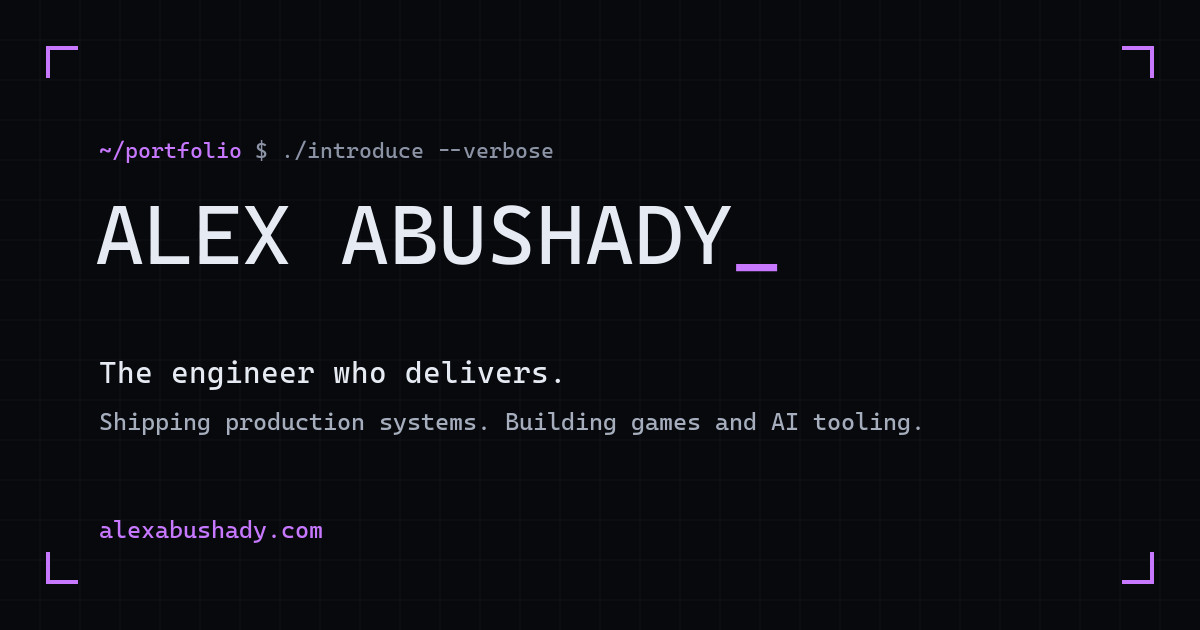
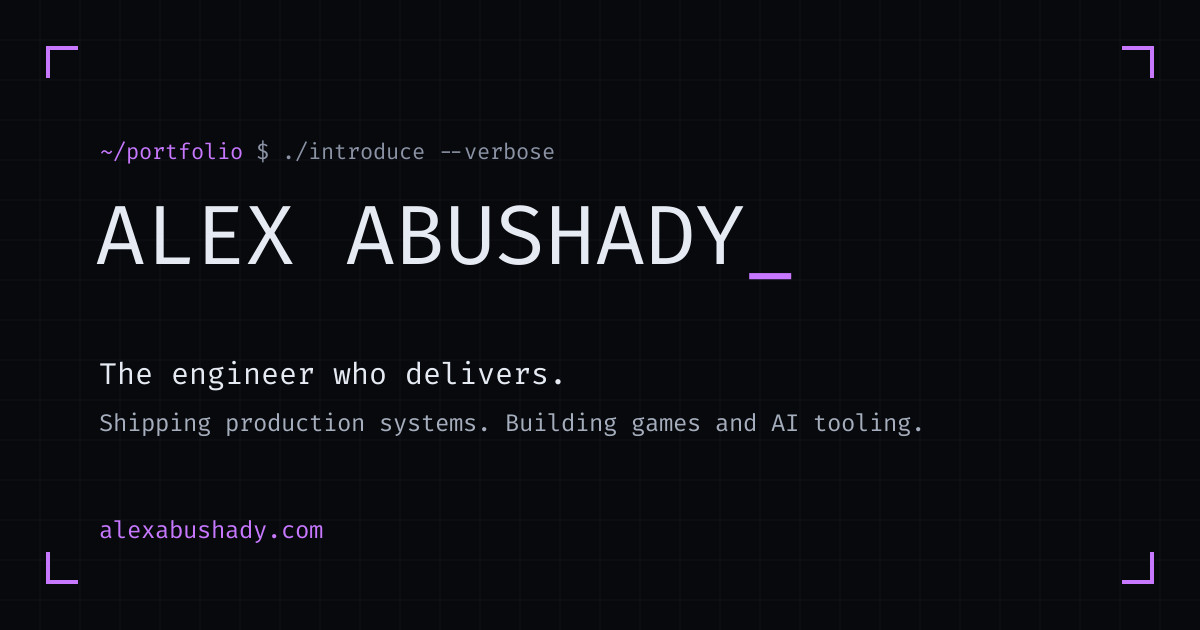
Add self-hosted Fira Code font and preload
Include Fira Code (400) as a self-hosted font: add woff2 and OFL license files, register @font-face in global CSS, and prefer 'Fira Code' as the mono font variable. Preload the font in MainHead for performance. Also replace/update public/assets/og-default.jpg. This ensures consistent monospace rendering for terminal/mono UI elements and ships the required license alongside the font.

diff --git a/src/styles/global.css b/src/styles/global.css
@@ -27,6 +27,15 @@
 	font-display: swap;
 	src: url('/fonts/cabinet-grotesk-variable.woff2') format('woff2');
 }
+/* Latin subset from Google Fonts; license in /fonts/LICENSE-fira-code-OFL.txt */
+@font-face {
+	font-family: 'Fira Code';
+	font-style: normal;
+	font-weight: 400;
+	font-display: swap;
+	src: url('/fonts/fira-code-400.woff2') format('woff2');
+	unicode-range: U+0000-00FF, U+0131, U+0152-0153, U+02BB-02BC, U+02C6, U+02DA, U+02DC, U+0304, U+0308, U+0329, U+2000-206F, U+20AC, U+2122, U+2191, U+2193, U+2212, U+2215, U+FEFF, U+FFFD;
+}
 
 /* Global variables */
 :root {
@@ -74,7 +83,7 @@
 		'Open Sans', 'Helvetica Neue', sans-serif;
 	--font-body: 'Satoshi', var(--font-system);
 	--font-brand: 'Cabinet Grotesk', var(--font-system);
-	--font-mono: ui-monospace, 'Cascadia Code', 'Cascadia Mono', Consolas, 'SF Mono', Menlo, monospace;
+	--font-mono: 'Fira Code', ui-monospace, 'Cascadia Code', 'Cascadia Mono', Consolas, 'SF Mono', Menlo, monospace;
 
 	/* Transitions */
 	--theme-transition: 0.2s ease-in-out;
